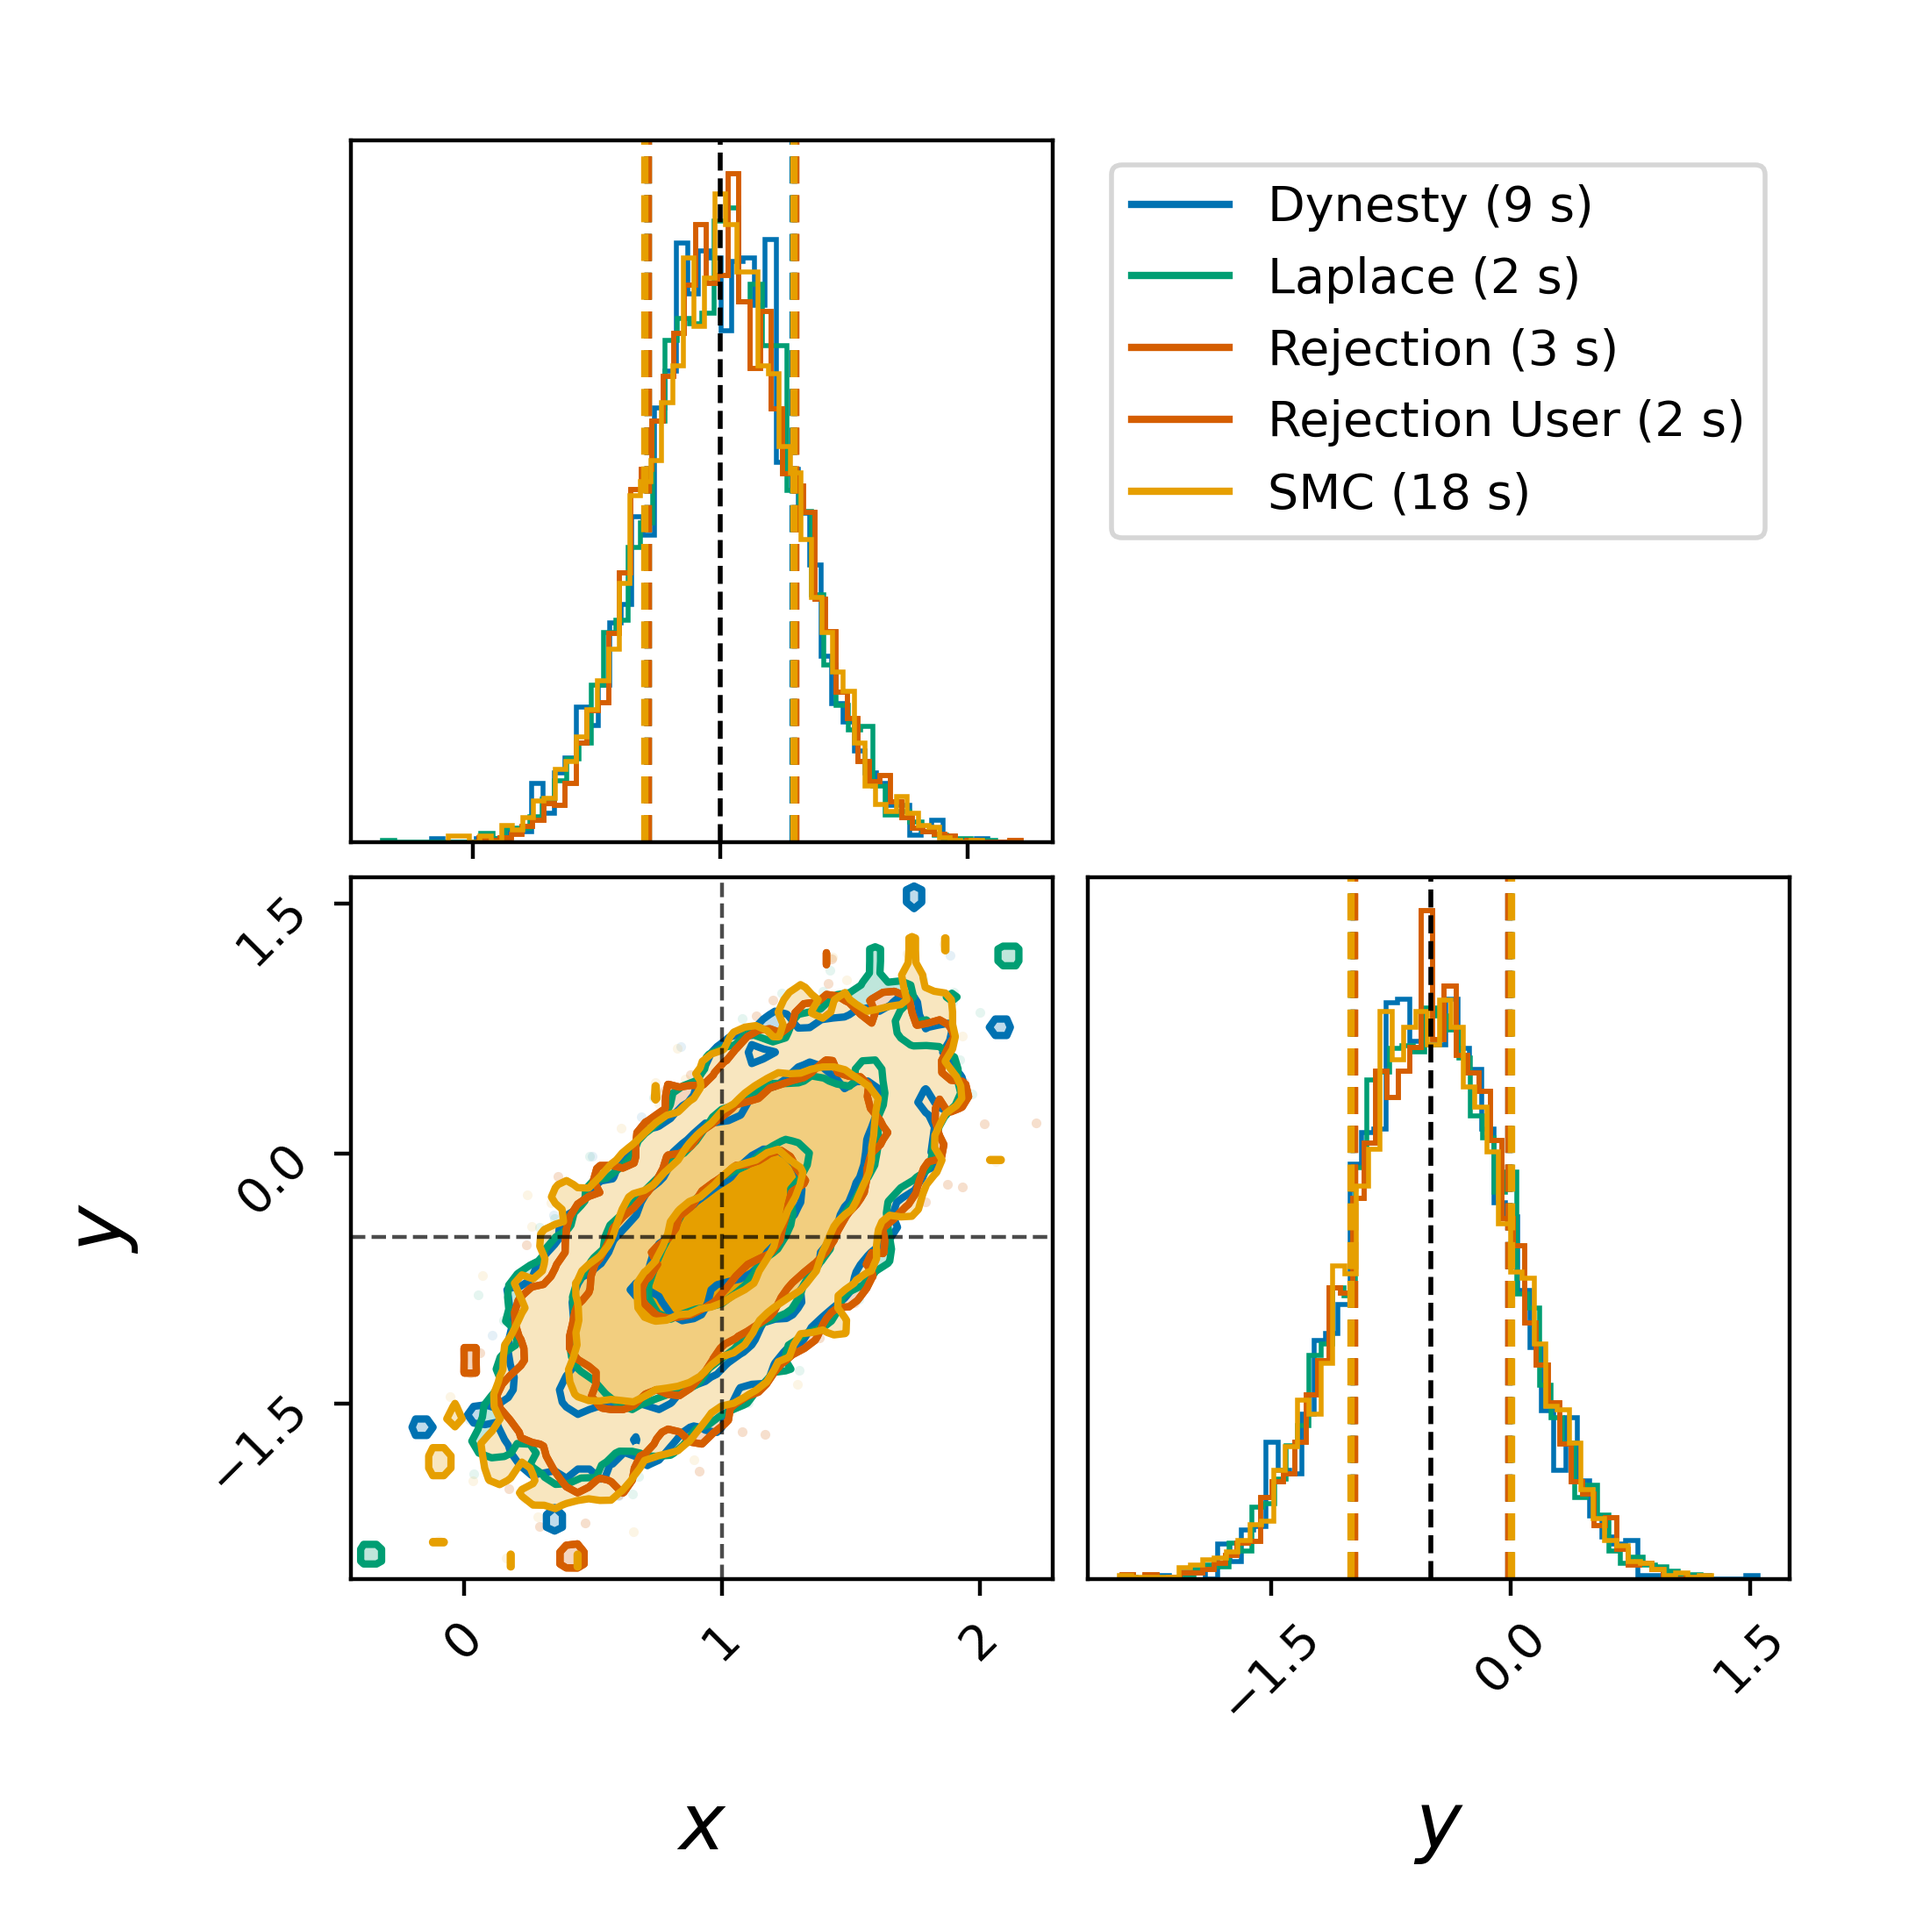
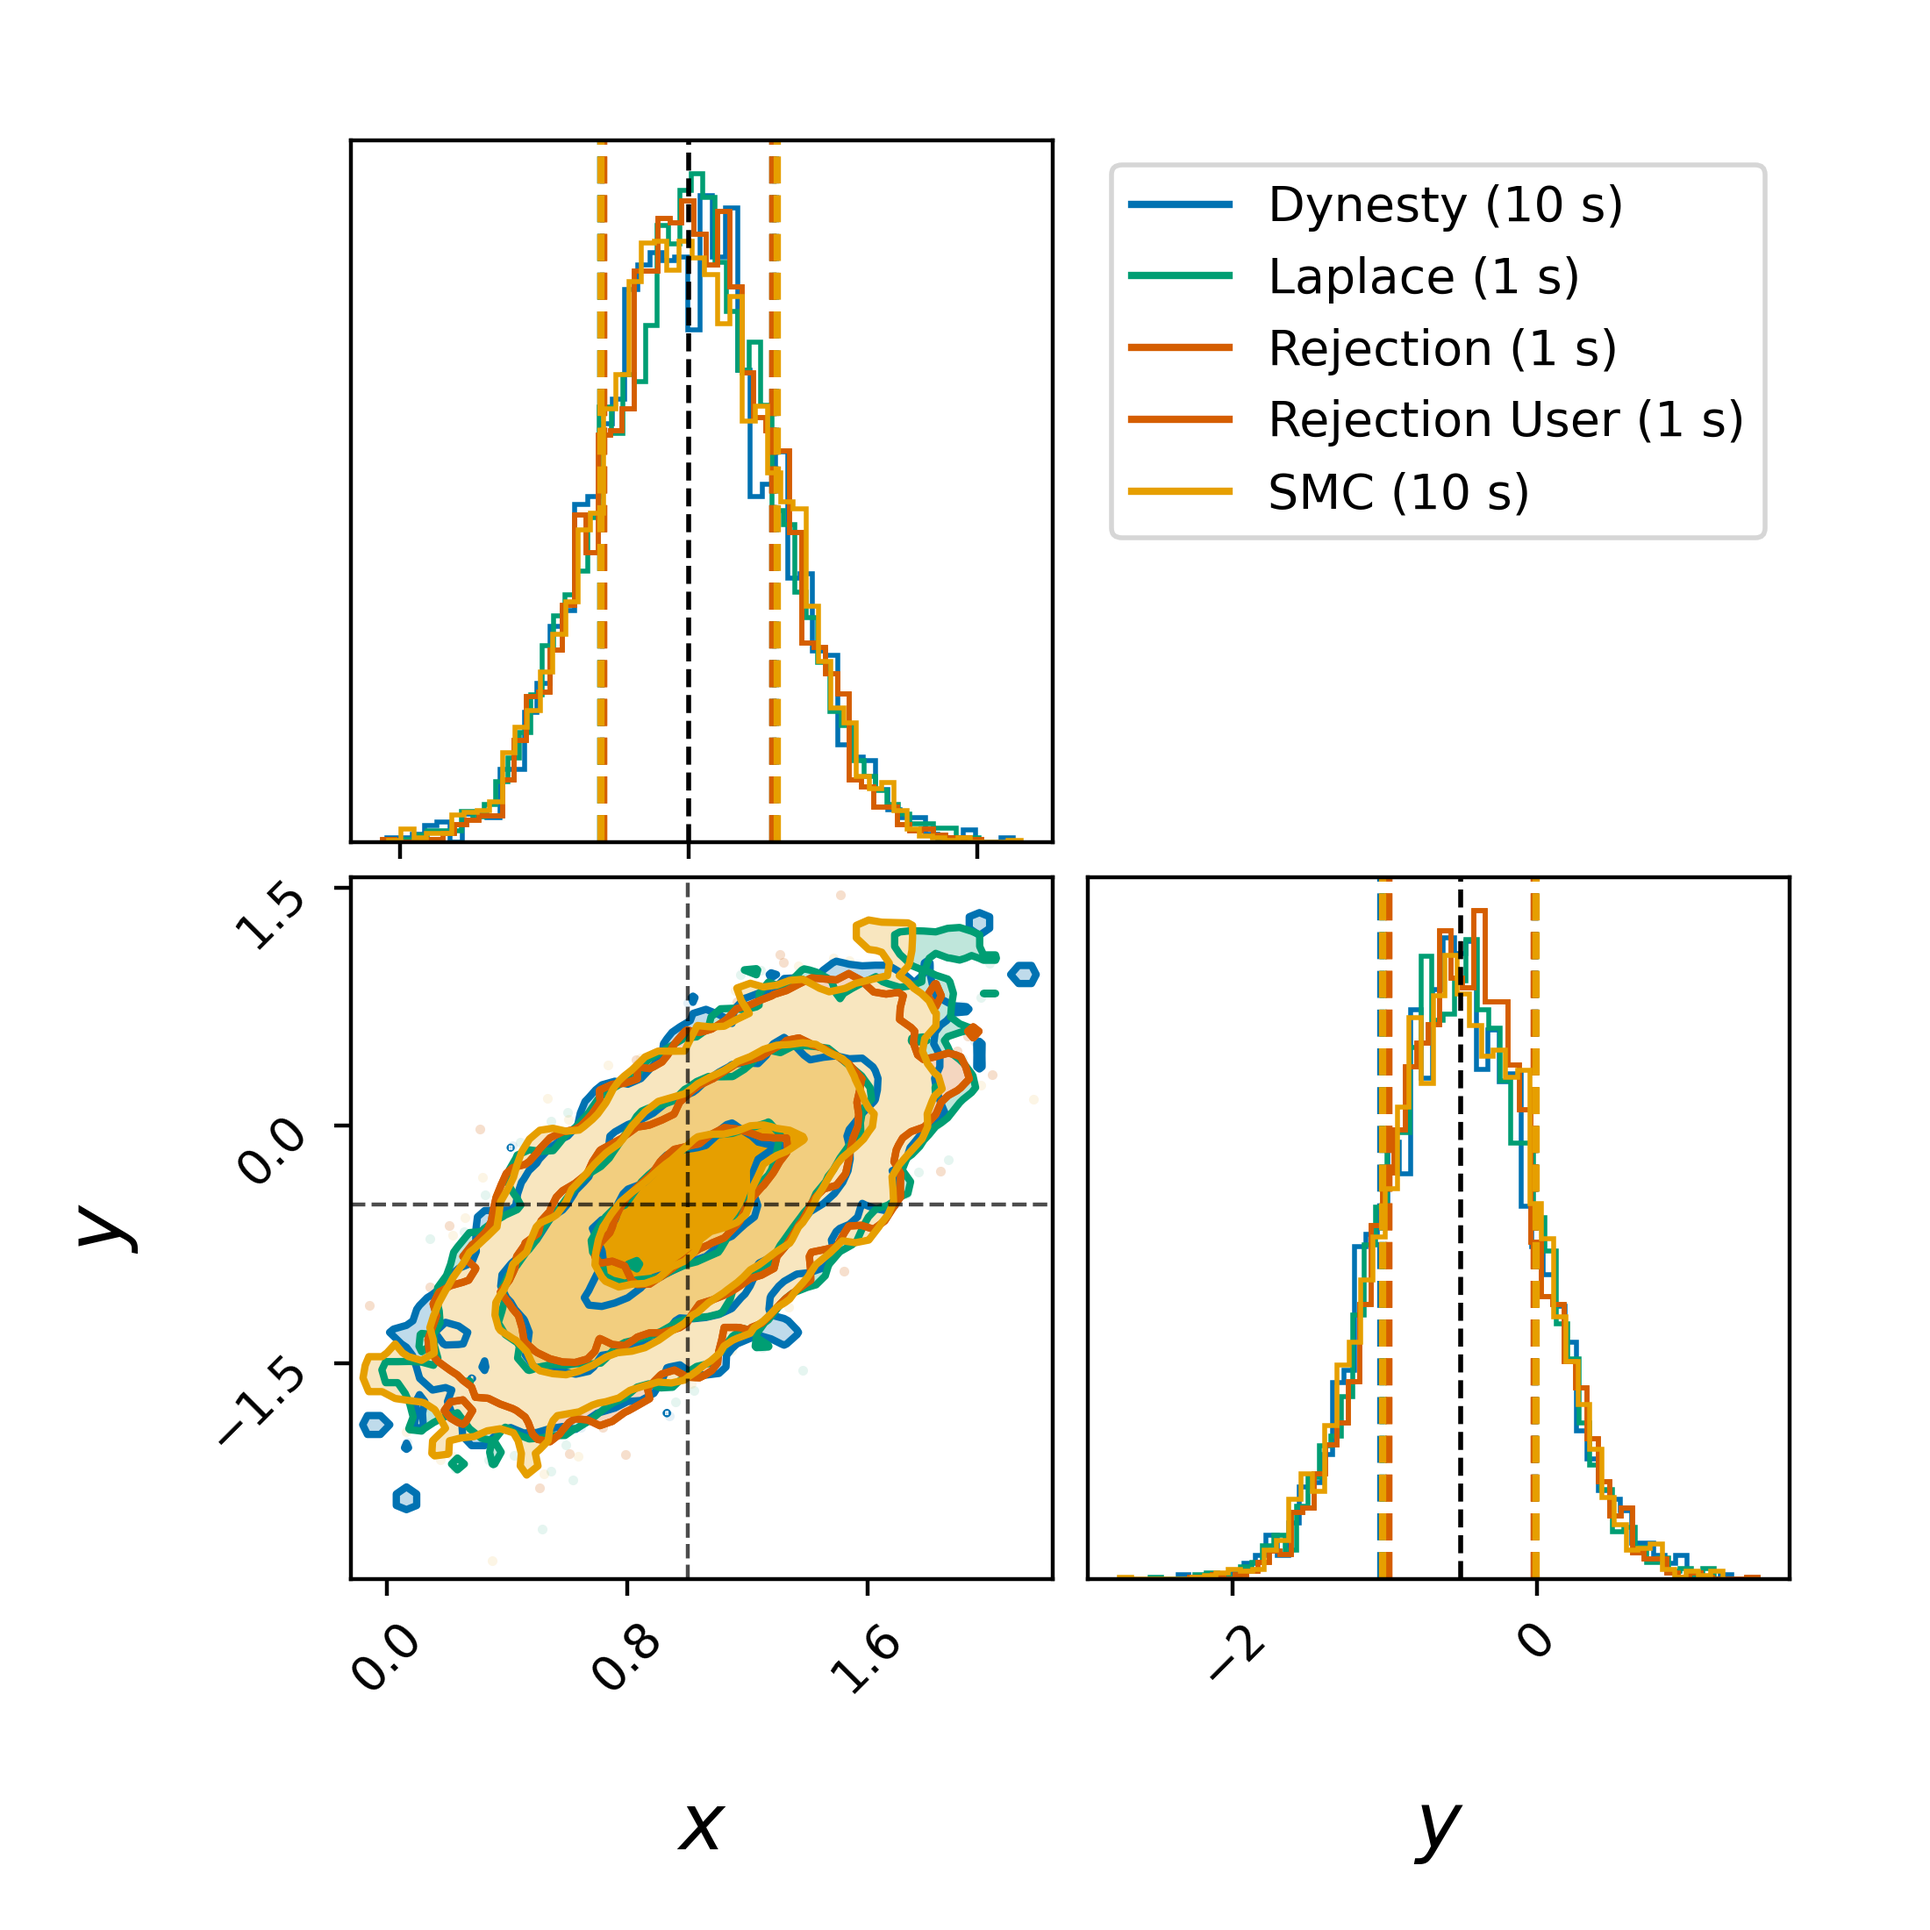
Updated runs on the examples

diff --git a/examples/gaussian/README.md b/examples/gaussian/README.md
@@ -15,13 +15,13 @@ Individual samplers: `make laplace`, `make rejection`, `make rejection-user`, `m
 
 `JSD` is the mean over sampled parameters of the Jensen-Shannon divergence of each 1-D marginal from `dynesty`, in millibits, evaluated at a fixed 2000 samples per side (the same count in every example, so values are comparable across them). The reference is not ground truth -- a small value means agreement with dynesty, not correctness.
 
-**Noise floor: at most 2.17 mbits.** That is `dynesty` against itself, two disjoint 1363-sample draws from the one posterior. Two finite samples of the *same* distribution do not score zero, so anything at or below this level is consistent with perfect agreement, and differences among such values are not measurements. The split needs twice its size, and this reference has too few samples for 2000; the floor falls with N, so the true figure at N=2000 is lower than the one quoted. It is one split averaged over the sampled parameters, so read it as an order of magnitude, not a threshold.
+**Noise floor: at most 2.82 mbits.** That is `dynesty` against itself, two disjoint 1319-sample draws from the one posterior. Two finite samples of the *same* distribution do not score zero, so anything at or below this level is consistent with perfect agreement, and differences among such values are not measurements. The split needs twice its size, and this reference has too few samples for 2000; the floor falls with N, so the true figure at N=2000 is lower than the one quoted. It is one split averaged over the sampled parameters, so read it as an order of magnitude, not a threshold.
 
 | method | log Z | ± | n_like | efficiency | time | JSD (mbits) | worst parameter |
 |---|---|---|---|---|---|---|---|
-| `dynesty` | -4.45 | 0.08 | 113387 | 3.4% | 8.7s | — | — |
-| `laplace` | -4.61 | nan | 5000 | 100.0% | 2.4s | 0.99 | y (1.09) |
-| `rejection` | -4.60 | 0.00 | 61000 | 8.3% | 2.6s | 1.70 | x (2.14) |
-| `rejection_user` | -4.60 | 0.00 | 61000 | 8.3% | 1.9s | 1.58 | x (2.25) |
-| `smc` | -4.61 | 0.01 | 45000 | 11.1% | 17.6s | 1.41 | x (1.47) |
+| `dynesty` | -4.61 | 0.08 | 114317 | 3.4% | 9.8s | — | — |
+| `laplace` | -4.61 | nan | 5000 | 100.0% | 0.7s | 1.21 | x (1.41) |
+| `rejection` | -4.61 | 0.01 | 27000 | 18.8% | 1.1s | 3.32 | y (3.78) |
+| `rejection_user` | -4.61 | 0.01 | 27000 | 18.8% | 1.1s | 2.42 | x (2.75) |
+| `smc` | -4.61 | 0.01 | 45000 | 11.1% | 10.3s | 1.12 | y (1.40) |
 

diff --git a/examples/rosenbrock/README.md b/examples/rosenbrock/README.md
@@ -1,0 +1,26 @@
+# rosenbrock — sampler comparison
+
+Posteriors from 4 samplers (`rosenbrock_dynesty`, `rosenbrock_inprior`, `rosenbrock_rejection`, `rosenbrock_smc`) on the rosenbrock example, each compared against the `rosenbrock_dynesty` reference.
+
+## Running it
+
+```
+make all       # every sampler in turn, then this comparison
+make compare   # rebuild this table and the corner plot from existing results
+```
+
+Individual samplers: `make laplace`, `make rejection`, `make smc`, `make dynesty`.
+
+## Comparison
+
+`JSD` is the mean over sampled parameters of the Jensen-Shannon divergence of each 1-D marginal from `rosenbrock_dynesty`, in millibits, evaluated at a fixed 2000 samples per side (the same count in every example, so values are comparable across them). The reference is not ground truth -- a small value means agreement with dynesty, not correctness.
+
+**Noise floor: at most 0.73 mbits.** That is `rosenbrock_dynesty` against itself, two disjoint 1201-sample draws from the one posterior. Two finite samples of the *same* distribution do not score zero, so anything at or below this level is consistent with perfect agreement, and differences among such values are not measurements. The split needs twice its size, and this reference has too few samples for 2000; the floor falls with N, so the true figure at N=2000 is lower than the one quoted. It is one split averaged over the sampled parameters, so read it as an order of magnitude, not a threshold.
+
+| method | log Z | ± | n_like | efficiency | time | JSD (mbits) | worst parameter |
+|---|---|---|---|---|---|---|---|
+| `rosenbrock_dynesty` | -4.13 | 0.07 | 212241 | 1.7% | 12.7s | — | — |
+| `rosenbrock_inprior` | nan | nan | 5000 | 100.0% | 0.7s | 44.59 | y (60.75) |
+| `rosenbrock_rejection` | -4.09 | 0.01 | 202000 | 2.5% | 3.0s | 1.50 | x (1.69) |
+| `rosenbrock_smc` | -4.16 | 0.03 | 18288897 | 0.027% | 143.2s | 1.13 | y (1.18) |
+
